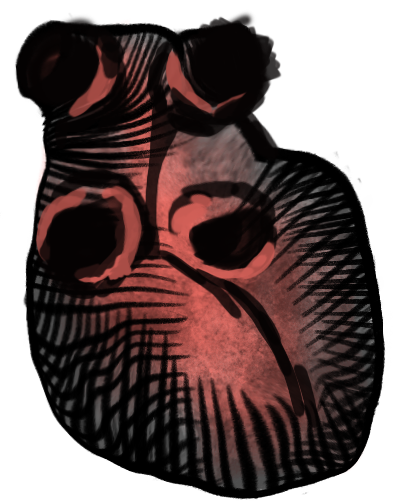
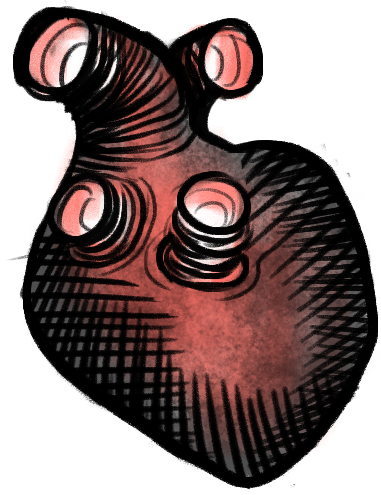
New gfx

diff --git a/squishycreature.js b/squishycreature.js
@@ -205,10 +205,10 @@ var OrganParameters = [
     collisionDef: [
         '  xxx',
         'xxxxx',
+        'xooxx',
         'xxxxx',
         'xxxxx',
-        'xxxox',
-        'xoxxx',
+        'xxxxx',
         '  x  '
     ],
     image_src: 'o_digestive.png',
